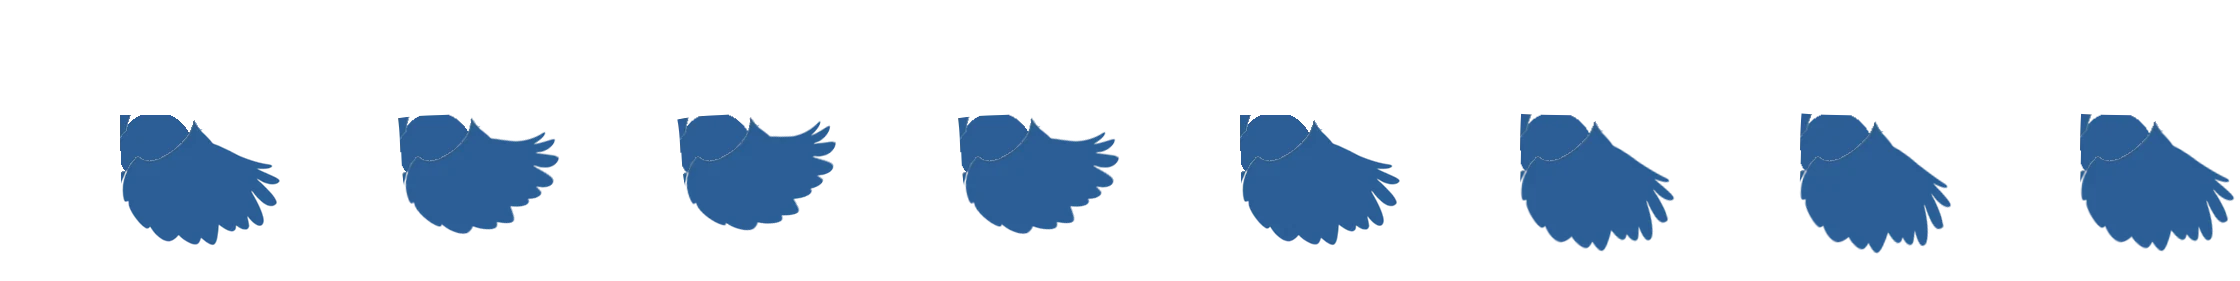
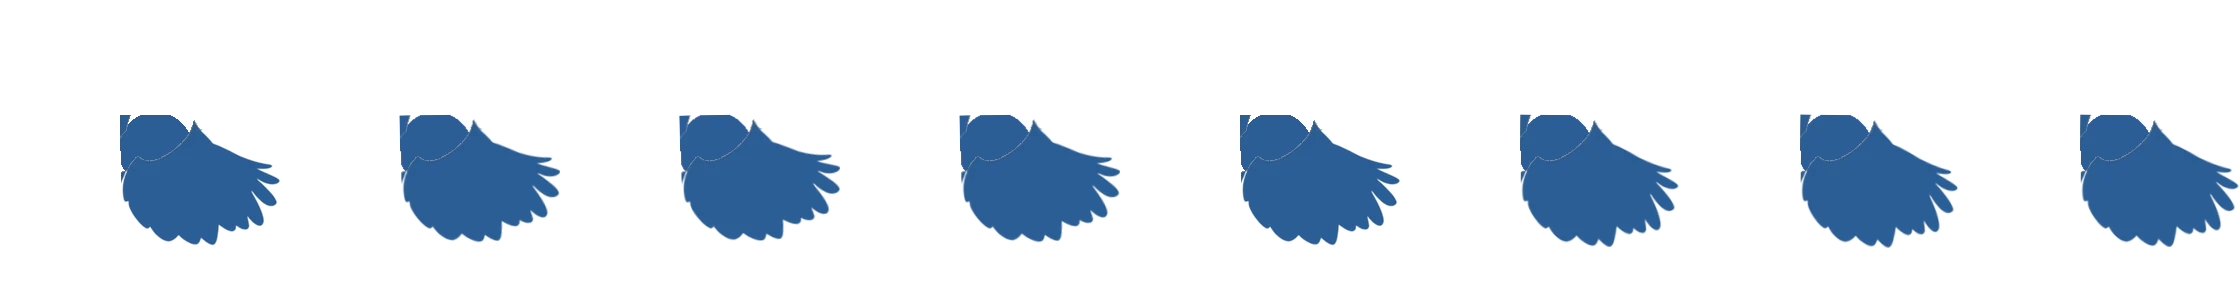
feat(ui): homepage magpie with live bit stream for transfers; calmer pairing wings
Transfer flight uses the home-screen bird (baked-in digits removed) and a
BitStream that drifts back only while bytes are really flowing. Pairing
wings now ripple gently; the tail cycle is unchanged.

diff --git a/frontend/src/components/transfer/FlightPath.tsx b/frontend/src/components/transfer/FlightPath.tsx
@@ -1,10 +1,11 @@
 import { Check, Laptop, ShieldCheck, X } from 'lucide-react';
 import type { TransferPhase } from '../../types/transfer';
 import type { PeerRole } from '../../types/navigation';
-import { FlappingBird, type FlapSpeed } from '../ui/FlappingBird';
+import flightBird from '../../assets/photos/magpie-flight.webp';
+import { BitStream } from './BitStream';
 
 /*
- * The signature FTU visual: the magpie flying from the sender's machine to the receiver's.
+ * The signature FTU visual: the home-screen magpie flying from the sender's machine to the receiver's.
  * The bird's position on the arc IS the real transfer progress — it only moves when the
  * backend reports bytes moving, and parks/lands according to the actual phase.
  */
@@ -123,8 +124,8 @@ export function FlightPath({ role, phase, fraction }: FlightPathProps) {
   const color = TONE_COLOR[v.tone];
   const plane = pointOnArc(v.t);
   const moving = phase === 'transferring' && fraction !== null;
-  // Wings beat only while something real is happening: fast with bytes flowing, slow while waiting on the peer.
-  const flap: FlapSpeed = moving ? 'fast' : phase === 'preparing' || phase === 'awaiting' || phase === 'deciding' || phase === 'transferring' || phase === 'verifying' ? 'slow' : 'off';
+  // The bits stream only while bytes are really flowing.
+  const flowing = moving;
 
   return (
     <div className="relative mx-auto w-full max-w-[min(600px,76vh)]" style={{ aspectRatio: `${VIEW_W} / ${VIEW_H}` }} aria-hidden>
@@ -158,14 +159,15 @@ export function FlightPath({ role, phase, fraction }: FlightPathProps) {
         style={{
           left: `${(plane.x / VIEW_W) * 100}%`,
           top: `${(plane.y / VIEW_H) * 100}%`,
-          width: '12%',
-          transform: `translate(-50%, -50%) rotate(${plane.angle * 0.6}deg) scale(${v.landed ? 0.3 : 1})`,
+          width: '17%',
+          transform: `translate(-50%, -50%) rotate(${plane.angle * 0.7}deg) scale(${v.landed ? 0.3 : 1})`,
           opacity: v.landed ? 0 : 1,
           filter: v.tone === 'danger' || v.tone === 'muted' ? 'grayscale(1)' : 'none',
           transition: `left ${moving ? '160ms linear' : '600ms cubic-bezier(.3,.7,.4,1)'}, top ${moving ? '160ms linear' : '600ms cubic-bezier(.3,.7,.4,1)'}, transform 600ms ease-out, opacity 400ms, filter 300ms`,
         }}
       >
-        <FlappingBird flap={flap} className={flap === 'slow' && !moving ? 'anim-hover' : ''} />
+        <BitStream flowing={flowing} />
+        <img src={flightBird} alt="" width={604} height={443} className={`relative w-full ${v.hovering ? 'anim-hover' : ''}`} />
       </div>
 
       <PeerNode

diff --git a/frontend/src/components/transfer/BitStream.tsx b/frontend/src/components/transfer/BitStream.tsx
@@ -1,0 +1,35 @@
+/** Fixed bit pattern: rows of digits that drift backwards from the bird. Purely decorative. */
+const ROWS: string[][] = [
+  ['0', '1', '1', '0', '1', '0'],
+  ['1', '1', '0', '1', '0', '0'],
+  ['0', '1', '0', '0', '1', '1'],
+];
+const ROW_TOP = ['12%', '46%', '78%'];
+
+interface BitStreamProps {
+  /** True only while bytes are really moving; otherwise the digits are hidden. */
+  flowing: boolean;
+}
+
+/**
+ * The binary digits from the home artwork, now alive: they spawn at the bird's tail and drift back
+ * along the route while data is flowing. Drawn behind the bird; hidden from assistive tech.
+ */
+export function BitStream({ flowing }: BitStreamProps) {
+  if (!flowing) return null;
+  return (
+    <div className="pointer-events-none absolute right-[78%] top-0 h-full w-[130%]" aria-hidden>
+      {ROWS.map((row, r) =>
+        row.map((bit, i) => (
+          <span
+            key={`${r}-${i}`}
+            className={`anim-bit absolute text-[0.95rem] font-extrabold leading-none ${(r + i) % 2 ? 'text-[#7d6f66]' : 'text-[#2f6aa8]'}`}
+            style={{ top: ROW_TOP[r], right: `${i * 15}%`, animationDelay: `${-(i * 0.22 + r * 0.31)}s` }}
+          >
+            {bit}
+          </span>
+        )),
+      )}
+    </div>
+  );
+}

diff --git a/frontend/src/index.css b/frontend/src/index.css
@@ -166,6 +166,12 @@ html.light {
   80% { transform: translateX(3px); }
 }
 
+@keyframes ftu-bit {
+  0% { opacity: 0; transform: translateX(0) scale(0.8); }
+  15% { opacity: 0.95; }
+  100% { opacity: 0; transform: translateX(-34px) scale(1); }
+}
+.anim-bit { animation: ftu-bit 1.3s linear infinite; }
 .anim-hover { animation: ftu-hover 2.4s ease-in-out infinite; }
 .anim-pulse-ring { animation: ftu-pulse-ring 1.8s ease-out infinite; }
 .anim-dash { animation: ftu-dash 1.2s linear infinite; }
